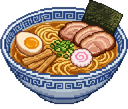
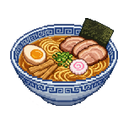
fix(kitchen): centre every food plate and even out their sizes
The plate art was trimmed with Image.getbbox() on the RGBA image, which
keeps a pixel whose RGB is non-zero even when it is fully transparent —
so the white-ish transparent padding around several dishes survived the
trim. object-fit: contain then centred the CANVAS, not the food, leaving
temaki, chicken, carbonara, pad thai and fried egg sitting up to 26px
left of their plate.

Every canvas was also the same width, so a tall squarish dish (maki, 128
of 128 content) rendered ~1.6x the visual mass of a flat one (fried egg,
87) in the same box.

normalize_food_art.py fixes both at the source instead of with per-food
fudge factors in React: trim on the ALPHA channel only, scale each dish
so its geometric mean size hits one target, paste it centred into a
square canvas. Square + centred means contain does the right thing for
free. Flat wide dishes (sardine, doner, paella) clamp to full width
rather than overflow.

Centring error is now under 0.5px of 128; visual size spread went from
78-127 to 98-100 for 21 of the 24 dishes.

?v=2 on the src — the service worker serves images stale-while-
revalidate, so same-path replacements need the query bump to show up.

diff --git a/src/components/care/FeedScene.tsx b/src/components/care/FeedScene.tsx
@@ -145,8 +145,13 @@ function FoodIcon({ id, size = 32 }: { id: string; color?: string; size?: number
   // render SMOOTH (image-rendering auto) — `pixelated` would alias the
   // non-integer downscale into a shimmering mess. Same rule as the Eren body
   // sprites; only the true 10×10 SVGs below are pixel-snapped.
+  //
+  // Every PNG is a square canvas with the dish centred and scaled to one
+  // visual size (`scripts/normalize_food_art.py`), so `contain` centres the
+  // food itself and no dish outweighs another. ?v= busts the service worker's
+  // stale-while-revalidate image cache after a re-normalise.
   if (FOOD_IMAGE_IDS.has(id)) return (
-    <img src={`/food/${id}.png`} alt="" draggable={false} width={S} height={S}
+    <img src={`/food/${id}.png?v=2`} alt="" draggable={false} width={S} height={S}
       style={{ width: S, height: S, objectFit: 'contain', display: 'block' }} />
   )
 

diff --git a/scripts/normalize_food_art.py b/scripts/normalize_food_art.py
@@ -1,0 +1,70 @@
+"""Normalise the food plate art in public/food so every dish reads the same size
+and sits dead-centre.
+
+Two things go wrong when plates are merely trimmed and downscaled to fit a box:
+
+1. OFF-CENTRE. Pillow's `Image.getbbox()` on an RGBA image keeps any pixel whose
+   RGB is non-zero even when it is fully transparent, so white-ish transparent
+   padding survives the trim. The canvas ends up wider than the dish, and
+   `object-fit: contain` centres the CANVAS, not the food — so temaki, chicken,
+   carbonara and fried egg all sat visibly left of their plate.
+
+2. UNEVEN WEIGHT. With every canvas the same width, a tall squarish dish
+   (maki, 128x127 of content) renders ~1.6x the visual mass of a flat one
+   (fried egg, 87x70) inside the same box.
+
+Both are fixed at the source rather than with per-food fudge factors in React:
+trim on the ALPHA channel only, scale each dish so its geometric mean size hits
+one target, then paste it centred into a SQUARE canvas. Square + centred means
+`object-fit: contain` does the right thing for free.
+
+Flat wide dishes (sardine, doner) can't reach the target without overflowing, so
+they clamp to MAX_SIDE and stay full-width — which is what a long thin fish
+should look like anyway.
+
+Run with `py scripts/normalize_food_art.py` (plain `python` has no Pillow).
+Idempotent: a second run is a no-op.
+"""
+
+from pathlib import Path
+from PIL import Image
+
+FOOD_DIR = Path(__file__).resolve().parent.parent / 'public' / 'food'
+
+BOX = 128        # square output canvas
+TARGET = 100     # sqrt(w*h) every dish is scaled toward
+MAX_SIDE = 124   # ...unless that overflows; leaves a 2px breathing margin
+ALPHA_FLOOR = 8  # ignore near-invisible halo pixels when finding the content
+
+
+def content_box(im: Image.Image):
+    """Bounding box of the visible art — alpha only, halo ignored."""
+    solid = im.split()[3].point(lambda a: 255 if a >= ALPHA_FLOOR else 0)
+    return solid.getbbox()
+
+
+def normalise(path: Path) -> str:
+    im = Image.open(path).convert('RGBA')
+    bbox = content_box(im)
+    if bbox is None:
+        return f'{path.name}: fully transparent, skipped'
+
+    art = im.crop(bbox)
+    w, h = art.size
+    scale = min(TARGET / (w * h) ** 0.5, MAX_SIDE / max(w, h))
+    tw, th = max(1, round(w * scale)), max(1, round(h * scale))
+
+    if abs(scale - 1) > 0.01:  # skip the resample when already on target
+        art = art.resize((tw, th), Image.LANCZOS)
+    else:
+        tw, th = w, h
+
+    out = Image.new('RGBA', (BOX, BOX), (0, 0, 0, 0))
+    out.paste(art, ((BOX - tw) // 2, (BOX - th) // 2))
+    out.save(path, optimize=True)
+    return f'{path.name:<20} {w}x{h} -> {tw}x{th} in {BOX}x{BOX}'
+
+
+if __name__ == '__main__':
+    for png in sorted(FOOD_DIR.glob('*.png')):
+        print(normalise(png))
